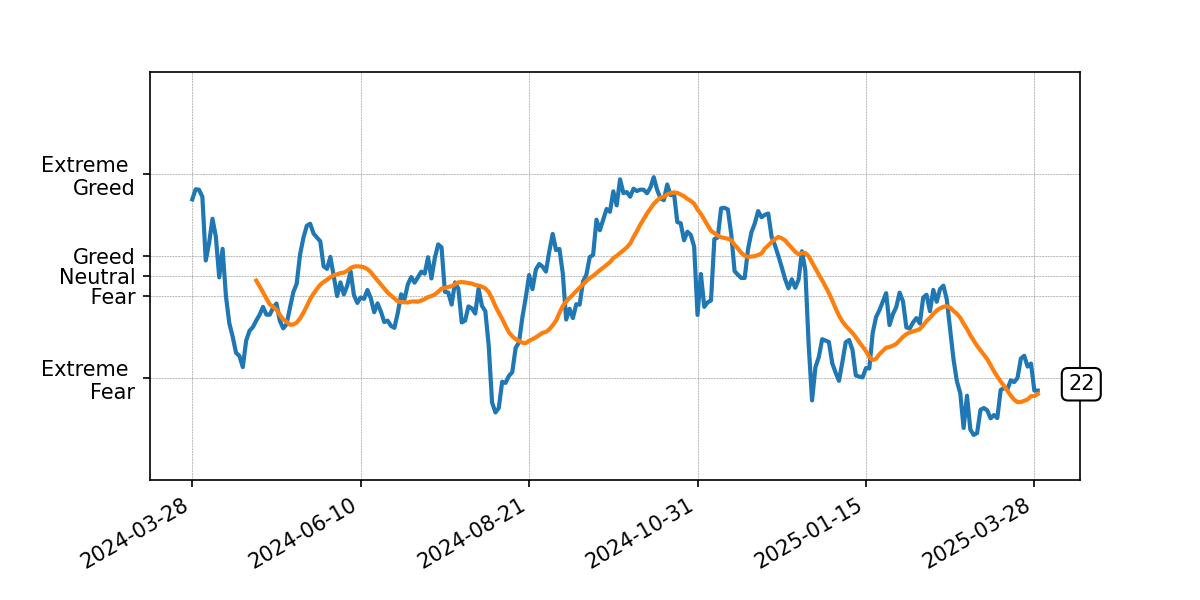
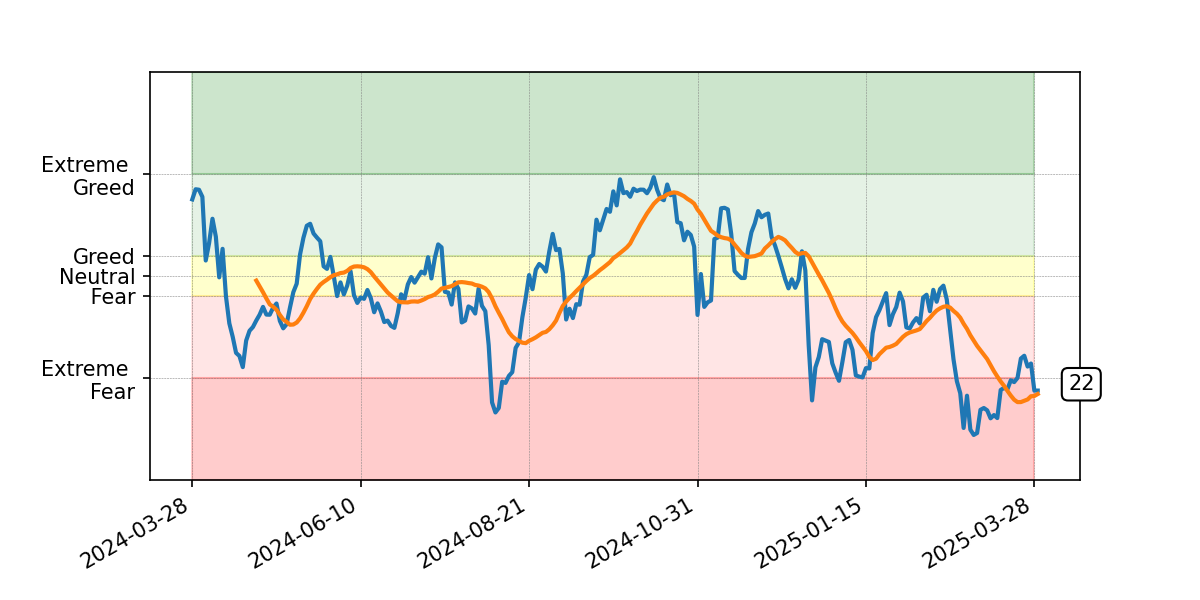
Colorized areas for fear and greed index

diff --git a/ffdm_indices.py b/ffdm_indices.py
@@ -40,6 +40,7 @@ def idx_graph(idx_name, df, baseDir):
     #chartDF['SMA50'] = chartDF['y'].rolling(50).mean()
     chartDF.plot(title=idx_name,figsize=(8,4), linewidth = '2.0')
     plt.grid(color = 'grey', linestyle = '--', linewidth = 0.25)
+
     if idx_name == 'fearandgreed':
         plt.ylim(0, 100)
         plt.yticks([25, 45, 50, 55, 75], ['Extreme \nFear', ' Fear', 'Neutral', 'Greed', 'Extreme \nGreed'])
@@ -48,6 +49,7 @@ def idx_graph(idx_name, df, baseDir):
     plt.gca().set_xlabel("")
     plt.gca().set_title("")
     plt.gcf().autofmt_xdate()
+    #plt.gca().set_facecolor('black')
     
     # Remove the unnecessary x-axis title 
     frame1 = plt.gca()
@@ -56,7 +58,13 @@ def idx_graph(idx_name, df, baseDir):
     
     # currDate = chartDF.index.values[-1]
     bbox_props = dict(boxstyle='round',fc='w', ec='k',lw=1)
-    frame1.annotate(str(currVal), (100, currVal), xytext = (260, currVal), bbox=bbox_props)
+    frame1.annotate(str(currVal), (100, currVal), xytext = (260, currVal), bbox=bbox_props)    
+
+    plt.fill_between(chartDF.index.values, 0, 25, color='red', alpha=0.2)
+    plt.fill_between(chartDF.index.values, 25, 45, color='red', alpha=0.1)
+    plt.fill_between(chartDF.index.values, 45, 55, color='yellow', alpha=0.2)
+    plt.fill_between(chartDF.index.values, 55, 75, color='green', alpha=0.1)
+    plt.fill_between(chartDF.index.values, 75, 100, color='green', alpha=0.2)
 
     try:
         plt.savefig(baseDir + "static/idxcharts/" + idx_name + ".png")
@@ -103,7 +111,6 @@ def index_data():
             except:
                 print("Error saving index data")
         indexDF = pd.read_csv(indexFile)
-        print(indexDF)
         if len(indexDF) > 0:
             indexDF.to_sql("index_FearAndGreed", con=idx_connection, if_exists='replace', index=False, chunksize=100)
             # Make sure data is committed to database
